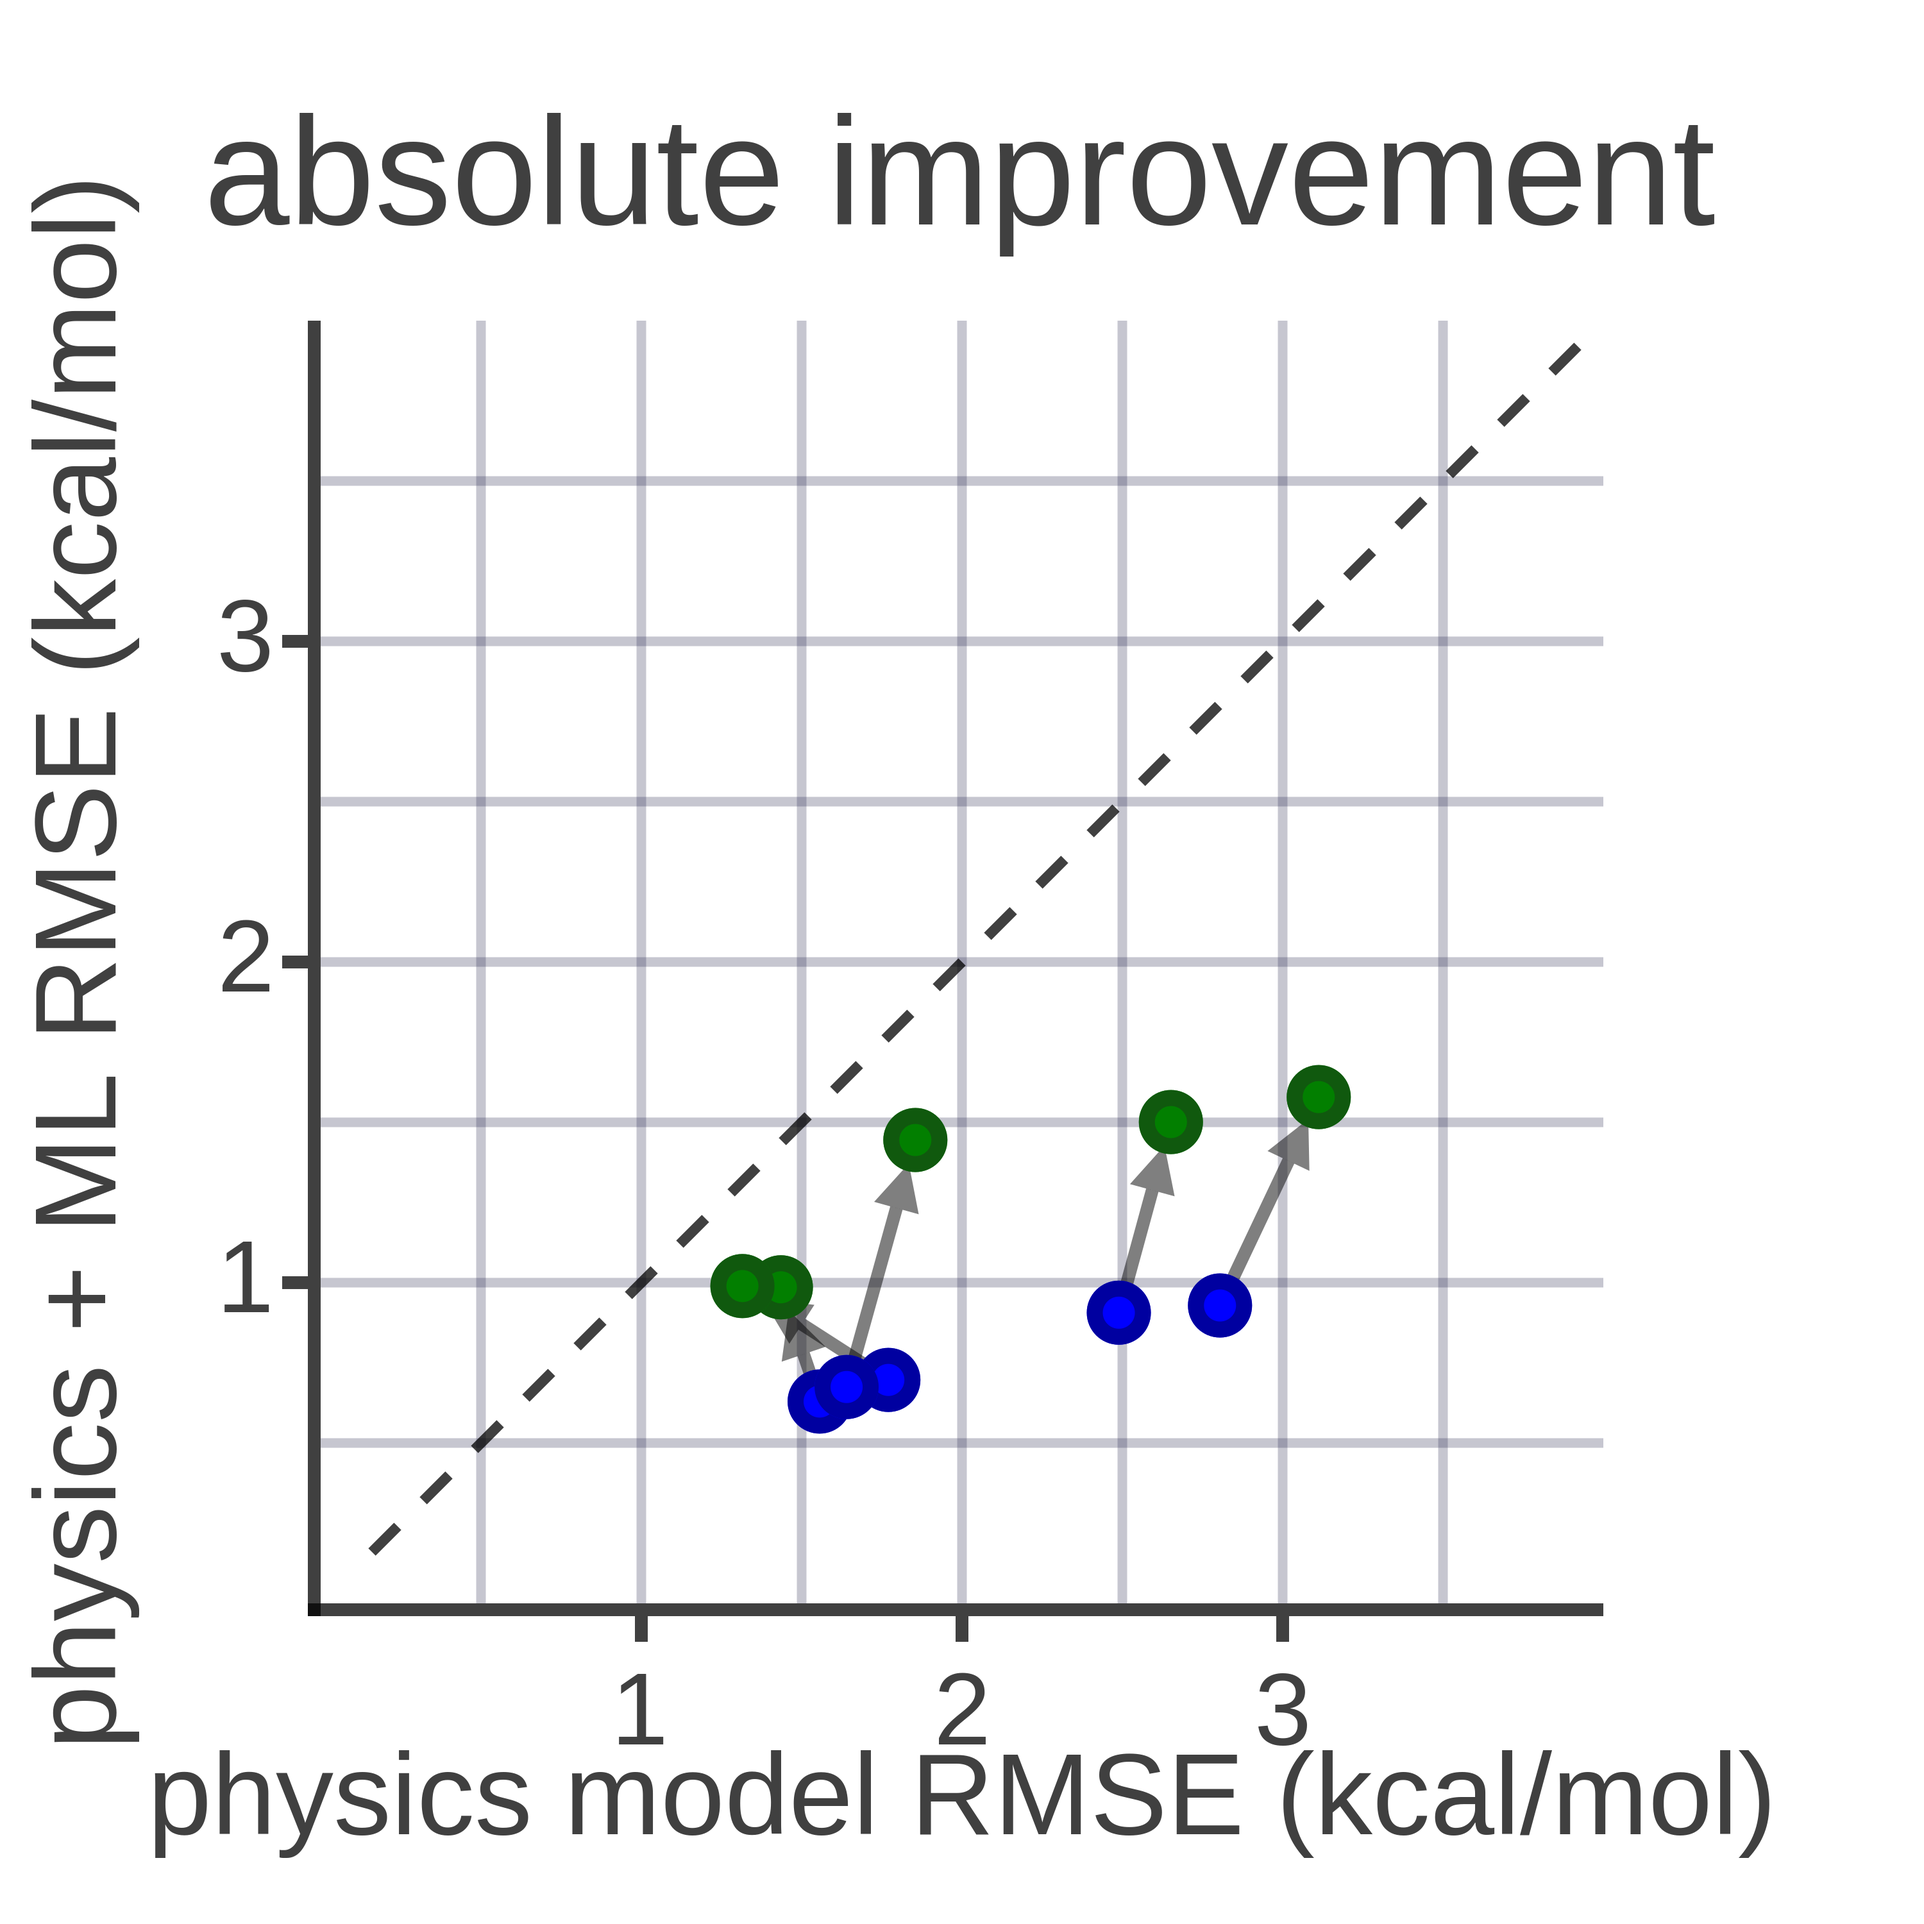
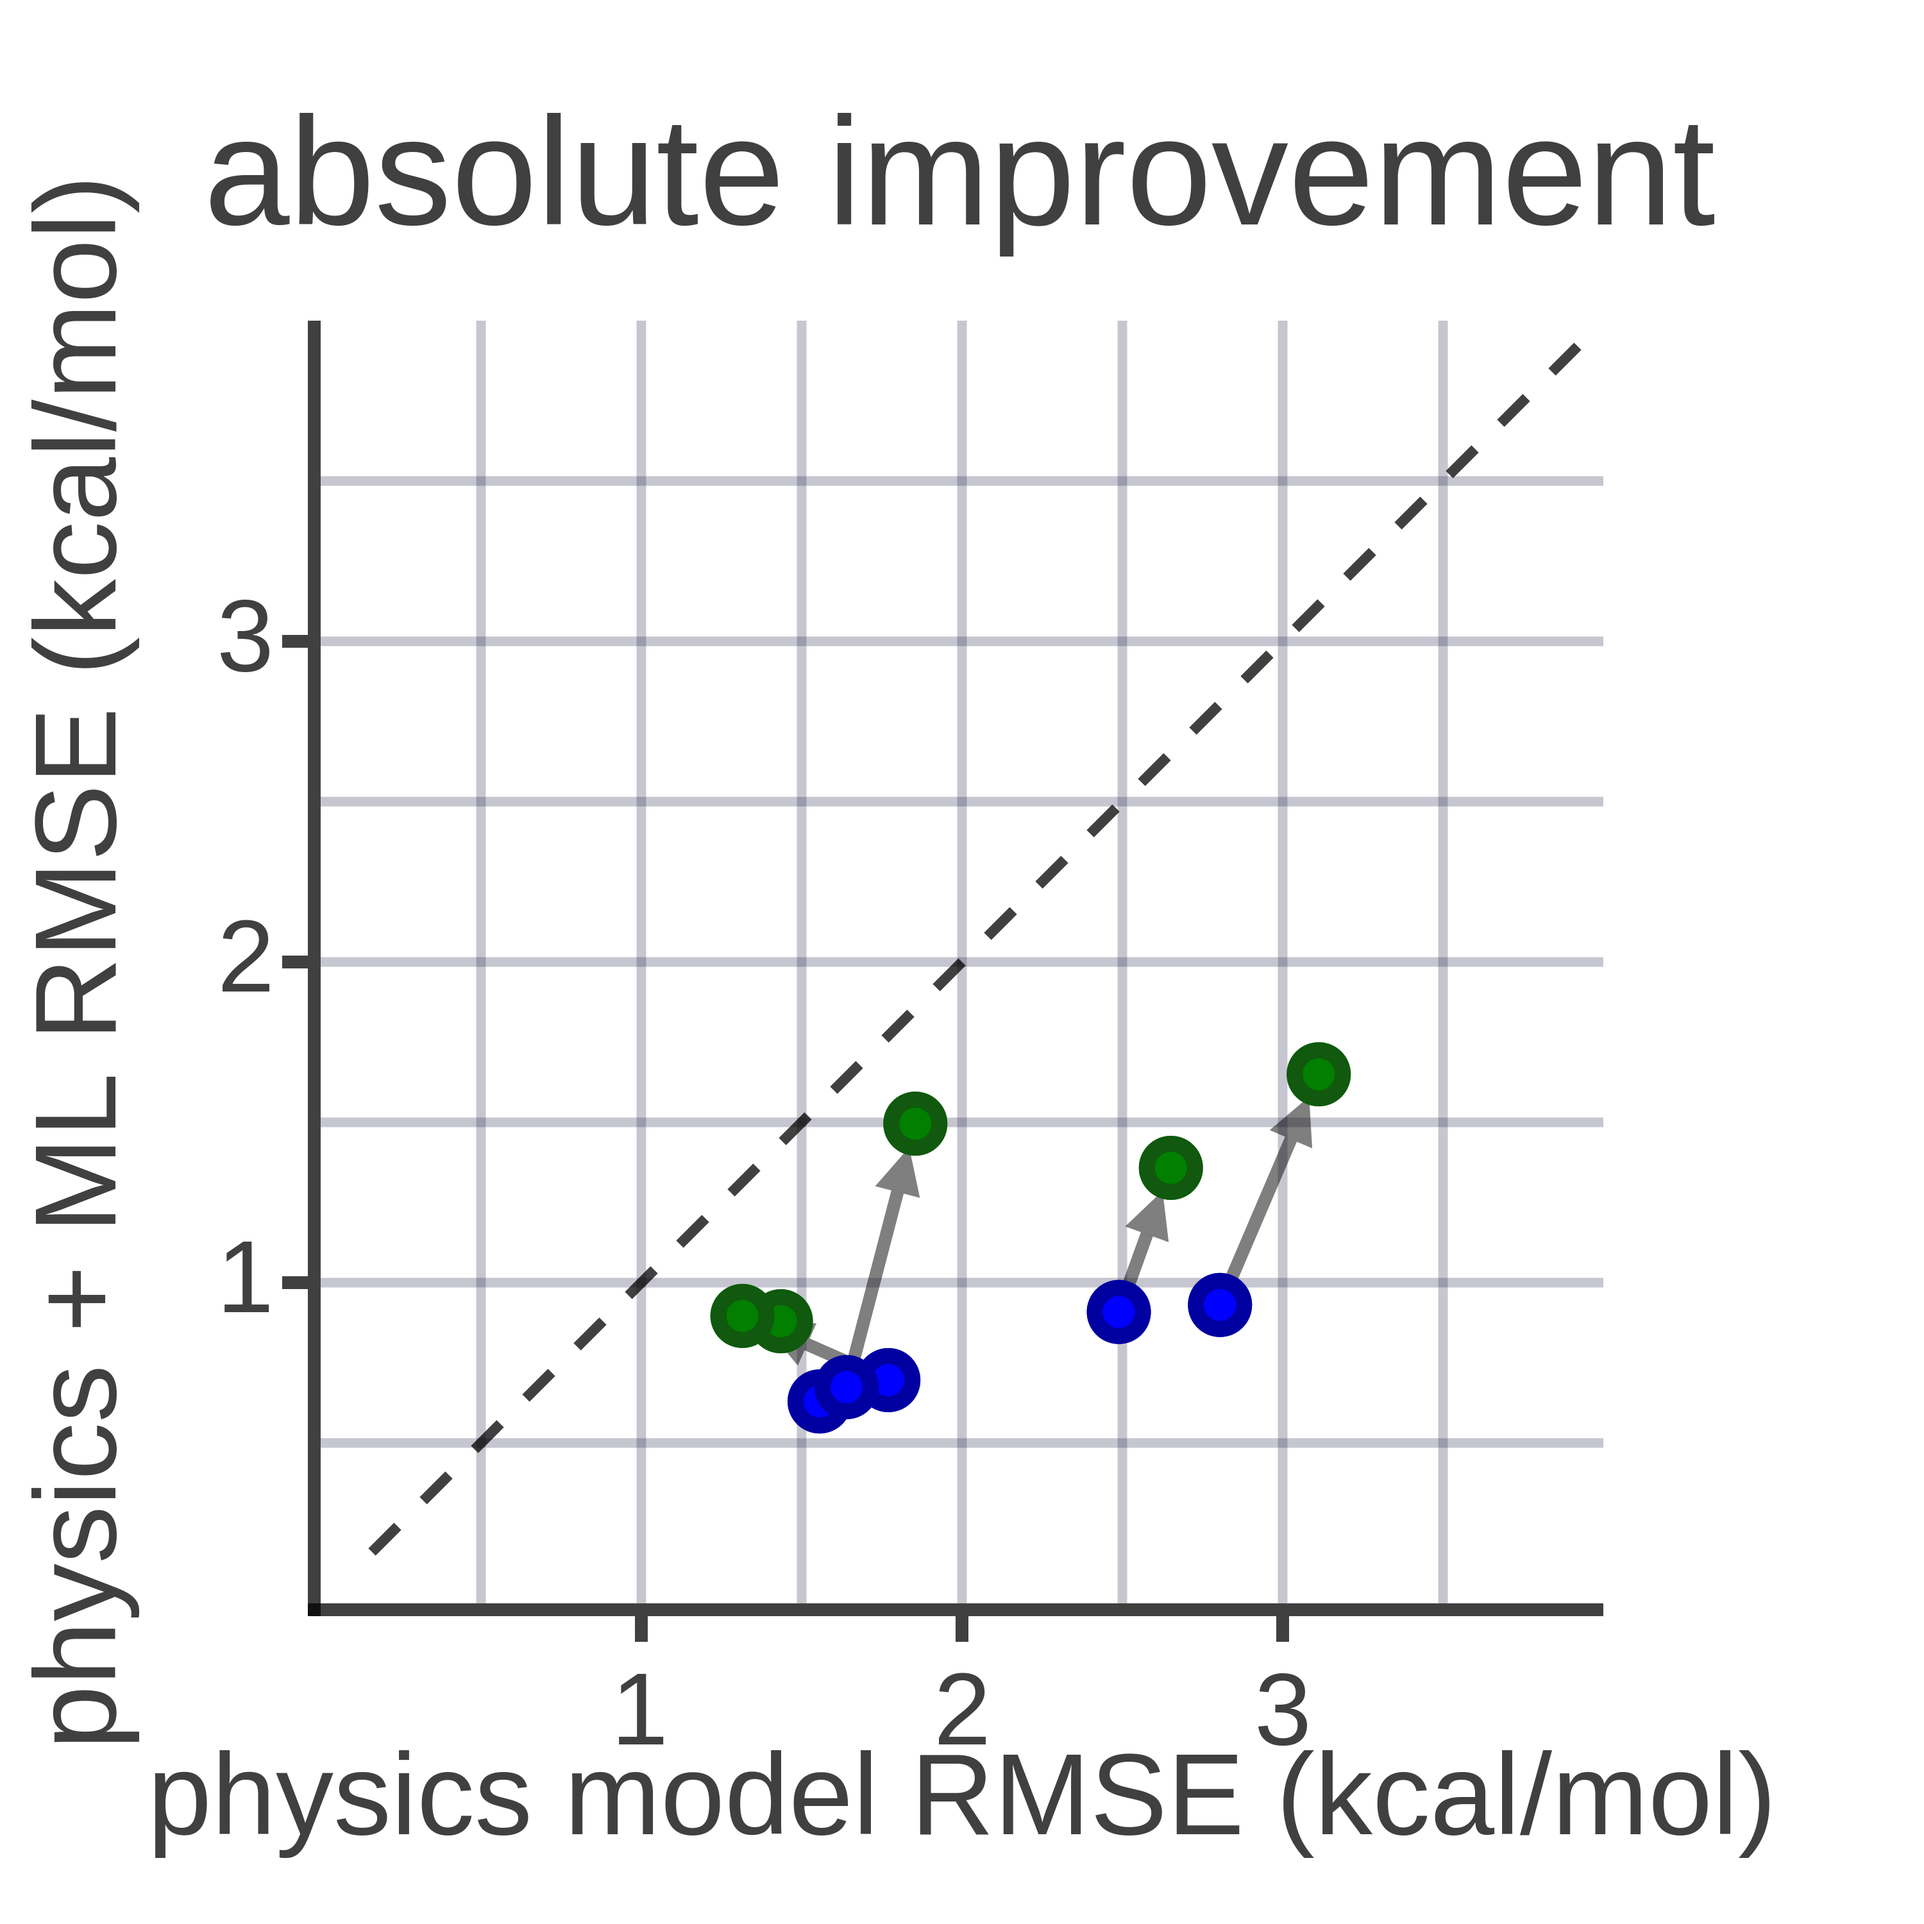
graph update

Changed region(s): [[0.589, 0.527, 0.713, 0.651], [0.372, 0.651, 0.465, 0.713], [0.434, 0.558, 0.496, 0.651]]

diff --git a/7_Graphing.py b/7_Graphing.py
@@ -327,10 +327,12 @@ for phy in phy_models:
         m_ml_test.append(i['ml_rmsd']['test'])
         m_phy_train.append(i['phy_rmsd']['train'])
         m_ml_train.append(i['ml_rmsd']['train'])
-    x.append(np.mean(m_phy_test))
-    y.append(np.mean(m_ml_test))
-    xp.append(np.mean(m_phy_train))
-    yp.append(np.mean(m_ml_train))
+    x .append(m_phy_test[int(model_indx[phy])])#np.mean(m_phy_test))
+    y .append(m_ml_test[int(model_indx[phy])])#np.mean(m_ml_test))
+    xp.append(m_phy_train[int(model_indx[phy])])#np.mean(m_phy_train))
+    yp.append(m_ml_train[int(model_indx[phy])])#np.mean())
+
+
 
 bw, bh = 1000, 1000
 w, h = 1500, 1500
